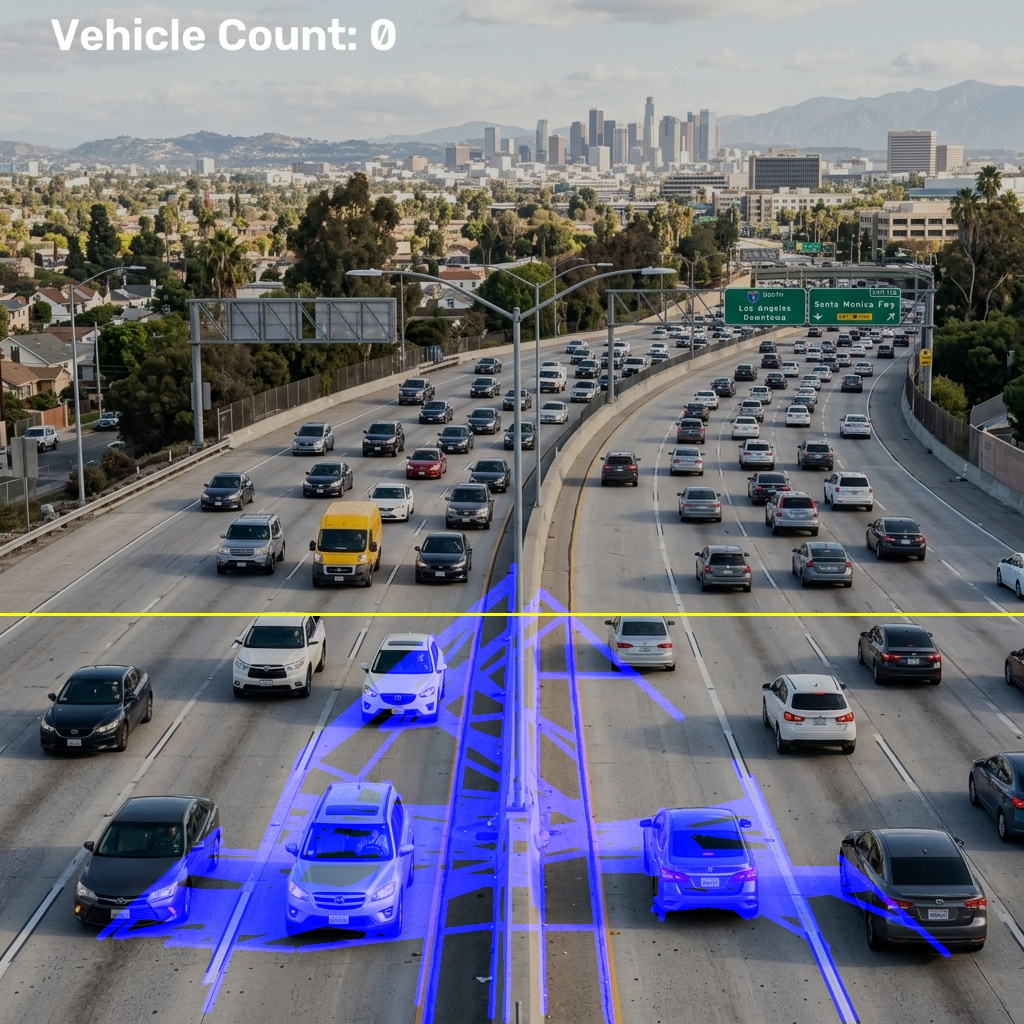
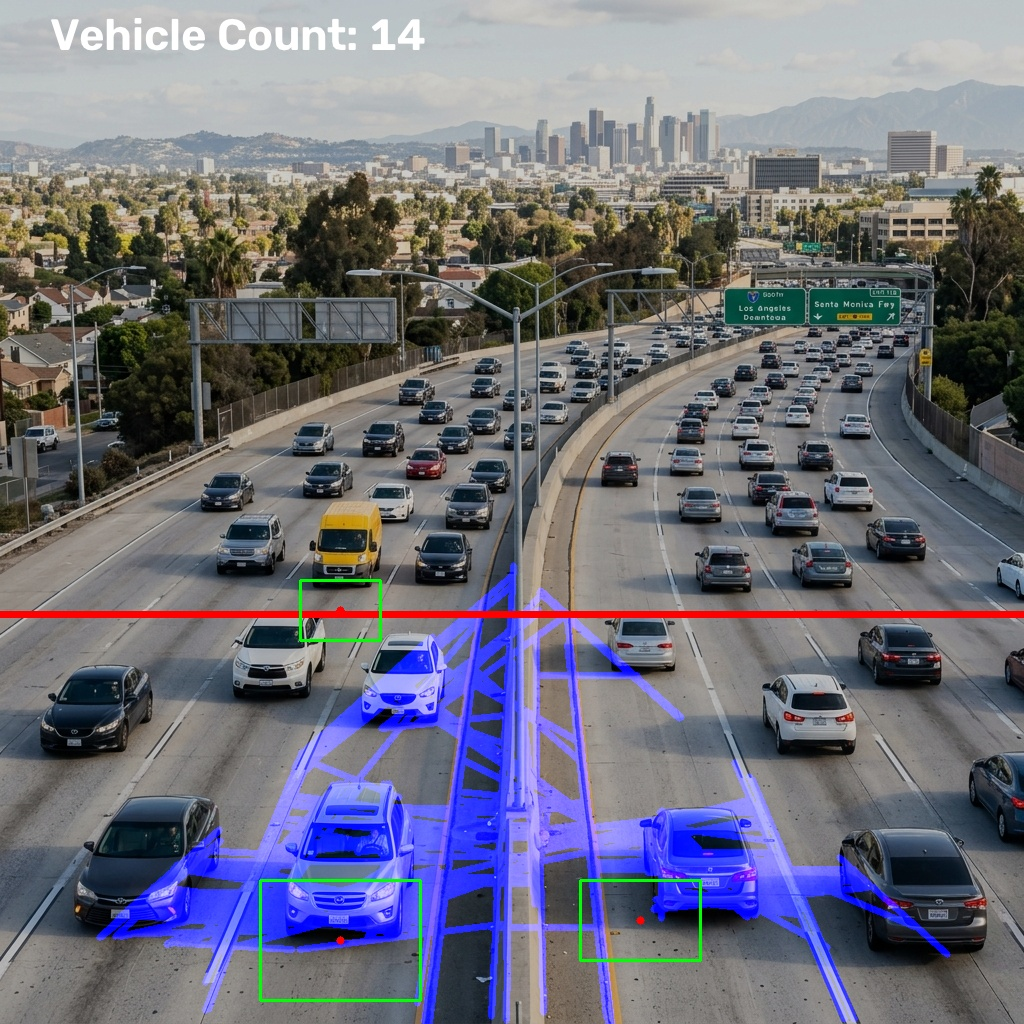
Add files via upload

diff --git a/README.md b/README.md
@@ -73,7 +73,7 @@ Traffic Vision Analysis CLI
 Starting processing... (Input: assets/original.jpg)
 Tasks: ['lane', 'vehicle']
 Processing complete!
-Final Vehicle Count: 0
+Final Vehicle Count: 14
 ```
 
 ### 2. Output Images
